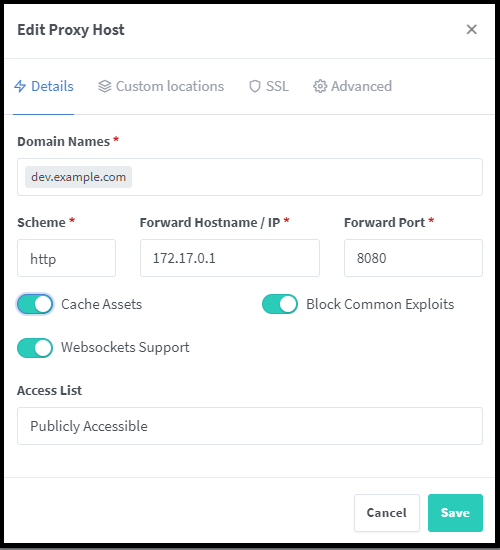
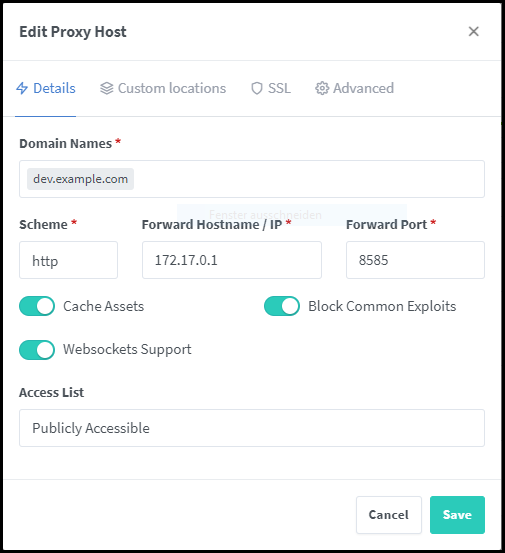
Change pictures

diff --git a/Weblate.md b/Weblate.md
@@ -161,3 +161,15 @@ WEBLATE_EMAIL_HOST_USER=user.name@gmail.com
 WEBLATE_EMAIL_HOST_PASSWORD=hvoljhkxqqmtbets
 CLIENT_MAX_BODY_SIZE=200M
 ```
+
+### Add Weblate into the NGINX Proxy Manager
+
+Configure the details:
+
+<img src="images/weblate.png" alt="Weblate">
+
+### Set the Let's Encrypt certificate
+
+Change to SSL
+
+<img src="images/ssl.png" alt="SSL Portainer">
